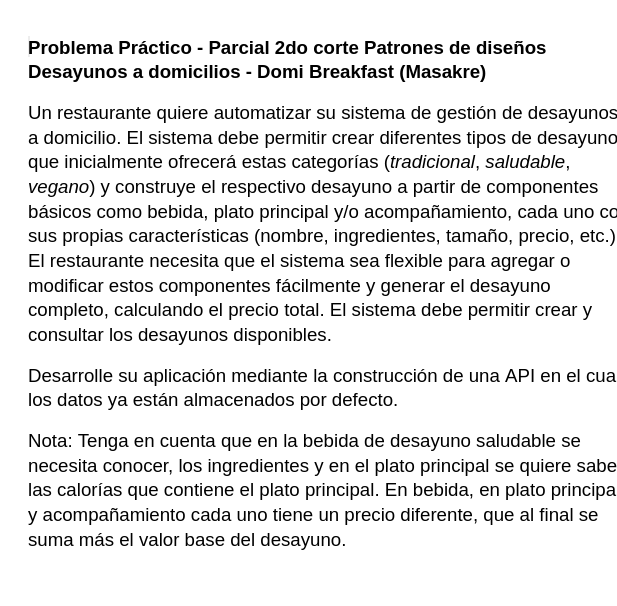
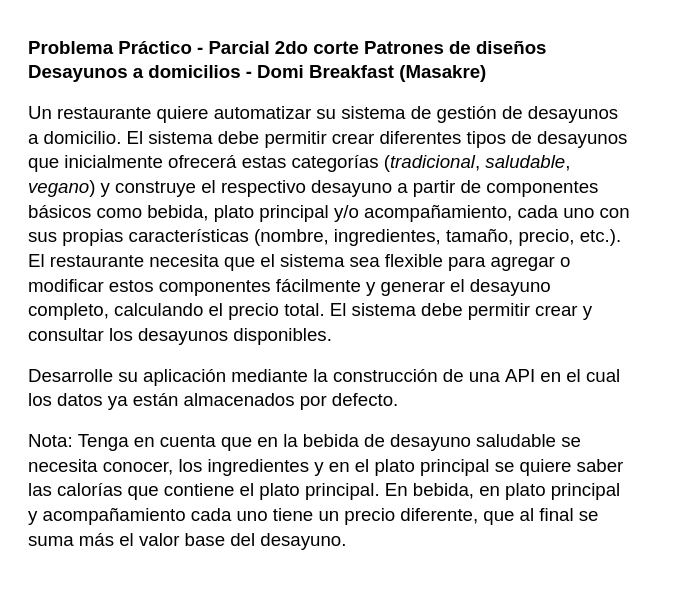
Cambios en el readme y en la imagen de problema practico

Changed region(s): [[0.0308, 0.0607, 1.0, 0.5767], [0.0308, 0.6071, 1.0, 0.941]]

diff --git a/README.md b/README.md
@@ -2,6 +2,6 @@
 
 Desarrollo de aplicacion para restaurante de desayunos a domicilio, aplicando patrones creacionales como Factory Method, Abstract Factory y Builder
 
-![problema-practico](https://github.com/user-attachments/assets/c1089480-64c9-4d8e-aad6-80823b27f0c9)
+![problema-practico](https://github.com/user-attachments/assets/804fe0d3-1af2-40bb-9222-e44925a04120)
 
 ![Class-diagram](https://github.com/user-attachments/assets/7b7615f4-d331-41dc-9ce0-47291e7d3093)
